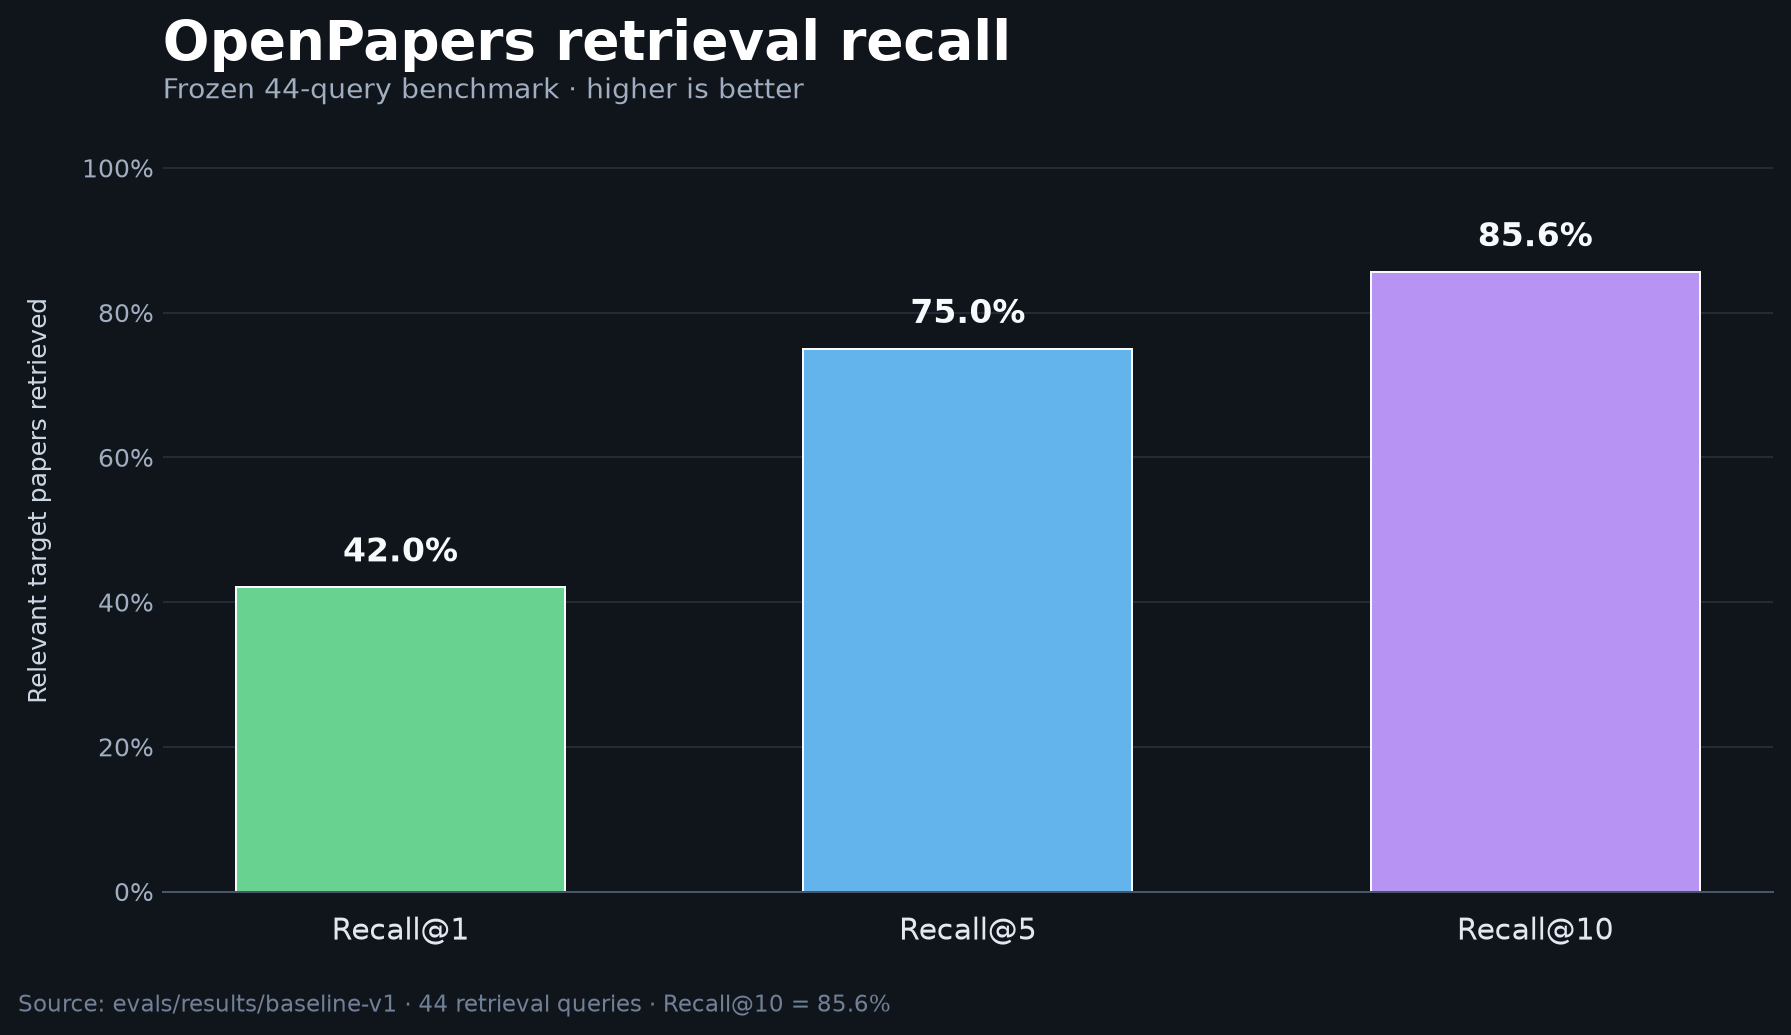
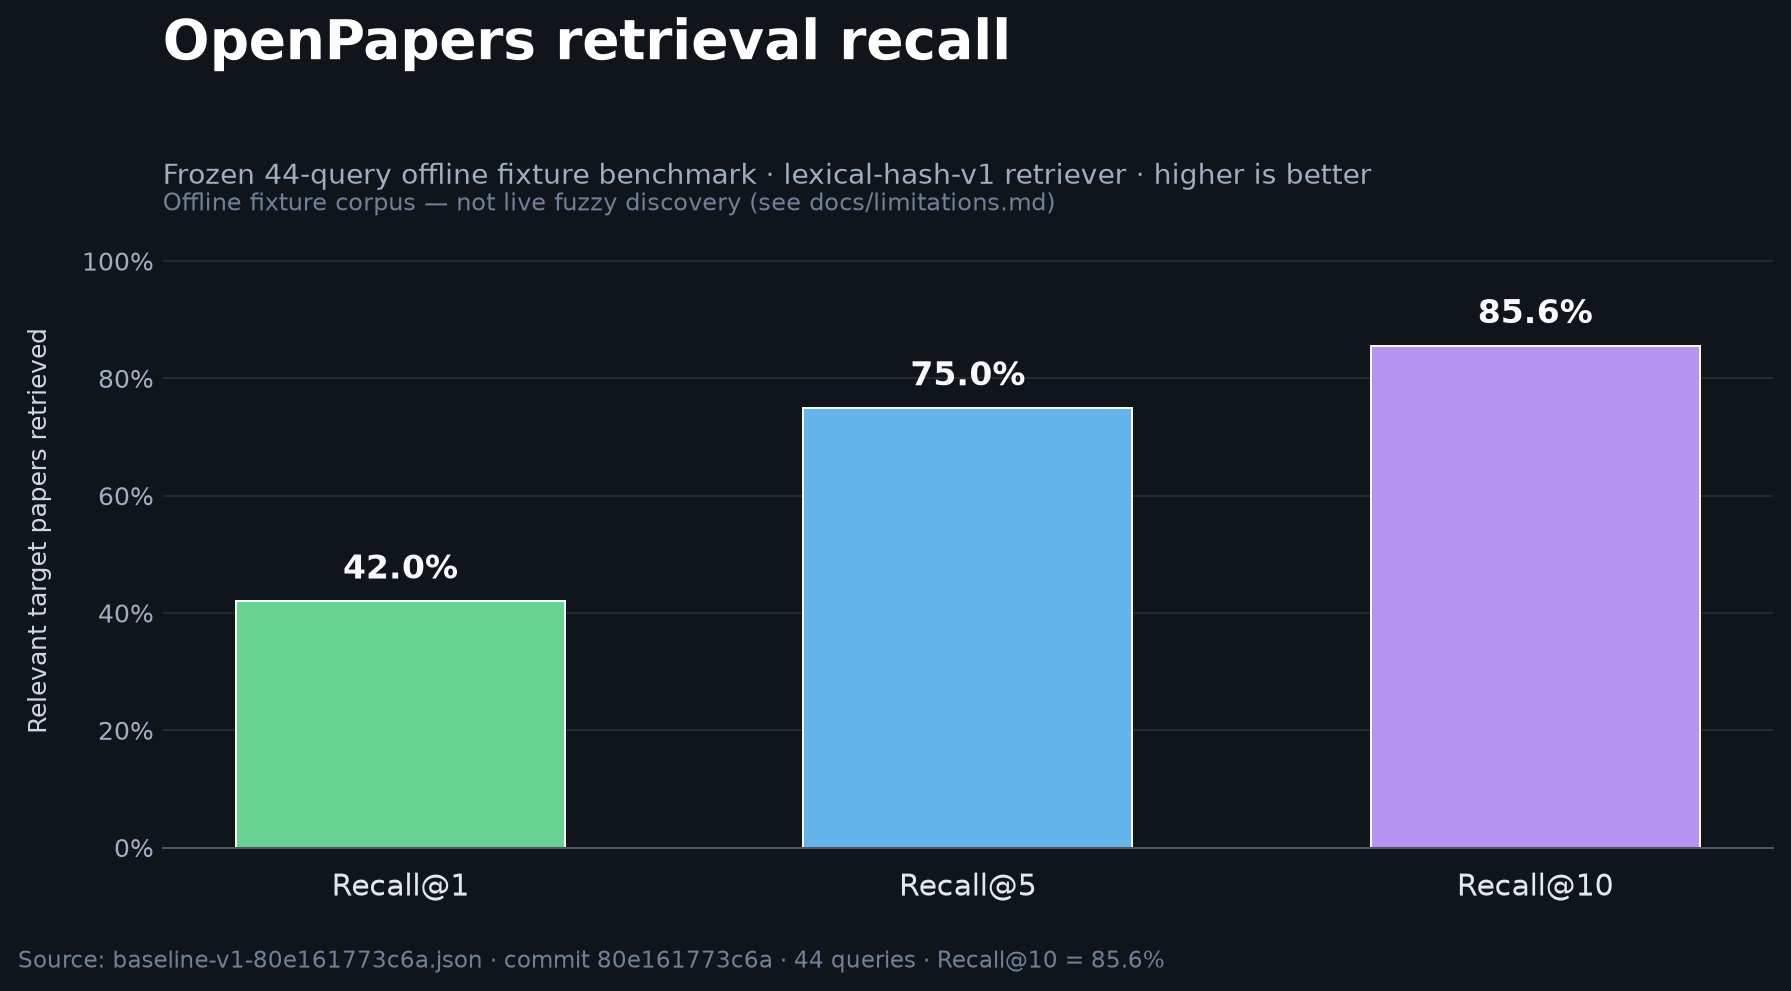
fix(release): gate run validity, identity drift, and chart provenance
Three defects found auditing the shipped 1.0.0 tree. No source defect was
found: npm run check is green (68 files / 273 tests) and the four commits
discarded by the release squash were verified content-identical to HEAD apart
from the README and the chart, so no work was lost.

Live gate accepted an invalid run. live-search-reliability-80e161773c6a.json
(recorded at the commit titled "docs: finalize release gate record") reported
all thresholds met while all 30 cases hit a provider failure under sustained
arXiv HTTP 429. All 8 identifier cases failed, giving identifier resolution 0.0
against 1.0 two days earlier. This is environmental, not a regression, but
nothing flagged the run as non-informative. Gate identifierResolutionRate at
0.9 and check run validity first, exiting 2 (LIVE RUN INVALID) when more than
half the cases hit provider failures, so a degraded network is distinguishable
from degraded software. Artifact schema is now v2. Replaying the recorded runs:
2026-09-06 -> exit 0, 2026-09-08 -> exit 2.

Repository identity had drifted. The remote is arjhinety/OpenPapers, but
package.json and server.json still named arrogance231, leaving mcpName in an
io.github.<owner> namespace that no longer matched repository ownership.
check-versions.mjs now enforces identity across package metadata, the server
manifest, and README links.

The recall chart hardcoded its numbers while citing evals/results/baseline-v1
[…]

diff --git a/scripts/plot-retrieval-recall.py b/scripts/plot-retrieval-recall.py
@@ -1,20 +1,80 @@
 #!/usr/bin/env python3
-"""Plot the frozen retrieval benchmark's Recall@K metrics."""
+"""Plot the frozen retrieval benchmark's Recall@K metrics.
 
+Values are read from a recorded baseline artifact rather than hardcoded, so the chart cannot
+drift away from the evidence its caption cites. Pass an artifact path to pin a specific run;
+otherwise the latest committed `baseline-v1-*.json` is used.
+"""
+
+import json
+import subprocess
+import sys
 from pathlib import Path
 
 import matplotlib.pyplot as plt
 from matplotlib.ticker import PercentFormatter
 
 
-RECALL = {
-    "Recall@1": 0.4204545454545455,
-    "Recall@5": 0.75,
-    "Recall@10": 0.8560606060606062,
-}
-
 ROOT = Path(__file__).resolve().parents[1]
+RESULTS = ROOT / "evals" / "results"
 OUTPUT = ROOT / "assets" / "retrieval-recall.png"
+
+
+def committed_at(record_commit: str) -> int | None:
+    """Commit timestamp for an artifact's anchor, or None if it does not resolve."""
+    try:
+        out = subprocess.run(
+            ["git", "show", "-s", "--format=%ct", record_commit],
+            cwd=ROOT, capture_output=True, text=True, check=True,
+        )
+        return int(out.stdout.strip())
+    except (OSError, ValueError, subprocess.CalledProcessError):
+        return None
+
+
+def find_artifact() -> Path:
+    """Newest baseline by COMMIT DATE, not filename.
+
+    Artifact names embed a commit hash, so sorting by name orders them by hex digits and silently
+    selects an arbitrary run -- it picked the superseded 12-query baseline over the current 44-query
+    one. Every evidence anchor is reachable (see the evidence/* tags), so git history is the
+    authoritative ordering.
+    """
+    if len(sys.argv) > 1:
+        return Path(sys.argv[1])
+    candidates = [
+        path
+        for path in RESULTS.glob("baseline-v1-*.json")
+        if not path.name.endswith(("-failures.json", "-paper-code-failures.json"))
+    ]
+    if not candidates:
+        sys.exit(f"error: no baseline-v1-*.json artifact found in {RESULTS}")
+    dated = [
+        (when, path)
+        for path, when in ((path, committed_at(path.stem.split("-")[-1])) for path in candidates)
+        if when is not None
+    ]
+    if not dated:
+        sys.exit(
+            "error: no baseline-v1 artifact has a resolvable commit anchor; "
+            "pass an artifact path explicitly"
+        )
+    return max(dated)[1]
+
+
+artifact = find_artifact()
+try:
+    record = json.loads(artifact.read_text(encoding="utf-8"))
+    aggregate = record["retrieval"]["aggregate"]
+    commit = record["commit"]
+    queries = aggregate["queries"]
+    RECALL = {
+        "Recall@1": aggregate["recallAt1"],
+        "Recall@5": aggregate["recallAt5"],
+        "Recall@10": aggregate["recallAt10"],
+    }
+except (OSError, KeyError, ValueError) as error:
+    sys.exit(f"error: cannot read retrieval aggregate from {artifact}: {error}")
 
 plt.style.use("dark_background")
 fig, ax = plt.subplots(figsize=(10, 6), dpi=180)
@@ -35,14 +95,22 @@ bars = ax.bar(
 ax.set_ylim(0, 1.08)
 ax.yaxis.set_major_formatter(PercentFormatter(1.0))
 ax.set_ylabel("Relevant target papers retrieved", color="#cbd5e0", labelpad=12)
-ax.set_title("OpenPapers retrieval recall", loc="left", fontsize=22, fontweight="bold", pad=20)
+ax.set_title("OpenPapers retrieval recall", loc="left", fontsize=22, fontweight="bold", pad=62)
 ax.text(
     0,
-    1.015,
-    "Frozen 44-query benchmark · higher is better",
+    1.048,
+    f"Frozen {queries}-query offline fixture benchmark · lexical-hash-v1 retriever · higher is better",
     transform=ax.transAxes,
     color="#a0aec0",
     fontsize=11,
+)
+ax.text(
+    0,
+    1.006,
+    "Offline fixture corpus — not live fuzzy discovery (see docs/limitations.md)",
+    transform=ax.transAxes,
+    color="#718096",
+    fontsize=9.5,
 )
 
 ax.grid(axis="y", color="#4a5568", alpha=0.35, linewidth=0.8)
@@ -68,11 +136,11 @@ for bar, value in zip(bars, values):
 fig.text(
     0.01,
     0.015,
-    "Source: evals/results/baseline-v1 · 44 retrieval queries · Recall@10 = 85.6%",
+    f"Source: {artifact.name} · commit {commit[:12]} · {queries} queries · Recall@10 = {RECALL['Recall@10']:.1%}",
     color="#718096",
     fontsize=9,
 )
-fig.tight_layout(rect=(0, 0.05, 1, 0.96))
+fig.tight_layout(rect=(0, 0.05, 1, 0.92))
 OUTPUT.parent.mkdir(parents=True, exist_ok=True)
 fig.savefig(OUTPUT, facecolor=fig.get_facecolor(), bbox_inches="tight")
-print(f"Wrote {OUTPUT}")
+print(f"Wrote {OUTPUT} from {artifact.name} (commit {commit[:12]}, {queries} queries)")

diff --git a/docs/testing.md b/docs/testing.md
@@ -2,6 +2,8 @@
 
 This document defines what the OpenPapers test program covers, what each gate proves, and which recorded evidence backs every public claim a release makes. Evidence files are committed under `evals/results/` with their producing commit and timestamp; tests run deterministically and credential-free unless marked live.
 
+Every artifact filename embeds the 12-character commit that produced it. Some of those commits predate the 1.0.0 history squash and are not ancestors of `master`, so each one is preserved by an annotated `evidence/<commit>` tag — `git show evidence/02c9ae4cf29f` resolves the run that produced `live-search-reliability-02c9ae4cf29f.json`. An evidence artifact whose anchor does not resolve is not evidence; `scripts/plot-retrieval-recall.py` relies on this to order baselines by commit date rather than by filename.
+
 ## Test levels
 
 | Level | Gate | Command | What it proves |
@@ -21,14 +23,15 @@ All 37 registered MCP tools have behavioral tests at the handler boundary (`test
 - `npm run check` green on Node 22 and 24 (L0+L1).
 - `npm run test:e2e` green (L2): stdio, HTTP, SQLite restart.
 - `npm run test:docker` green with the persistence step passing (L4); evidence in `evals/results/docker-e2e-*.json`.
-- Live thresholds met (L3) in the recorded result: title-exact Recall@10 ≥ 0.9, identity correctness ≥ 0.95, zero-result-with-no-reported-failure = 0. Evidence: `evals/results/live-search-reliability-*.json`.
+- Live thresholds met (L3) in the recorded result: title-exact Recall@10 ≥ 0.9, identifier resolution ≥ 0.9, identity correctness ≥ 0.95, zero-result-with-no-reported-failure = 0. Evidence: `evals/results/live-search-reliability-*.json`.
+- The L3 run is **valid** (L3): at most half the cases hit a provider failure (`runValidity.providerFailureCaseRate` ≤ 0.5). Validity is checked before thresholds and is not a quality metric — a run whose providers were broadly rate-limited measures nothing, so `--strict` exits `2` (`LIVE RUN INVALID`) to distinguish it from a genuine quality failure, which exits `1`. See the 2026-09-08 degraded run recorded in [the release checklist](../RELEASE_CHECKLIST.md).
 
 ## Claims matrix
 
 | Public claim | Evidence (committed) | Scope and honest limits |
 |---|---|---|
-| Ranking and identity work deterministically offline | `evals/results/baseline-v1-*.json`: Recall@10 0.856, MRR 0.773 over 44 queries; identity accuracy 1.0 over 119 cases, false merge/split 0; `evals/results/retrieval-holdout-*.json`: Recall@1/5/10 1.0 (5 frozen queries, never used for tuning) | Fixture corpus; numbers are not comparable across datasets |
-| Search finds known works reliably | `evals/results/live-search-reliability-*.json`: title-exact Recall@10 1.0 (16 cases), identifier resolution 1.0 (8 cases: arXiv id, URL, DOI, doi.org URL forms) | 30-case run from one network region at one timestamp; fuzzy discovery Recall@10 0.5 is recorded as discovery quality, not a guarantee (see [limitations](limitations.md)) |
+| Ranking and identity work deterministically offline | `evals/results/baseline-v1-*.json`: Recall@10 0.856, MRR 0.773 over 44 queries; identity accuracy 1.0 over 119 cases, false merge/split 0; `evals/results/retrieval-holdout-*.json`: Recall@1/5/10 1.0 (5 frozen queries, never used for tuning) | Fixture corpus; numbers are not comparable across datasets. The holdout withholds **query phrasings, not documents**: all five target works (`lora`, `orpo`, `flashattention`, `self-instruct`, `mixtral`) also appear in the 44-query tuning set, so it measures paraphrase robustness over a tuned corpus, not generalization to unseen works. At n=5 a perfect score is weak evidence — treat it as a regression tripwire, not a quality estimate |
+| Search finds known works reliably | `evals/results/live-search-reliability-02c9ae4cf29f.json`: title-exact Recall@10 1.0 (16 cases), identifier resolution 1.0 (8 cases: arXiv id, URL, DOI, doi.org URL forms), 9/30 cases with provider failures | 30-case run from one network region at one timestamp; fuzzy discovery Recall@10 0.5 is recorded as discovery quality, not a guarantee (see [limitations](limitations.md)). A later run (`-80e161773c6a`) under sustained arXiv HTTP 429 recorded identifier resolution 0.0 and fuzzy 0.333 with 30/30 cases failing; it is retained as an invalid run, not a quality measurement |
 | Identity is never fabricated | Live identity correctness 1.0; `tests/identifier-probe.test.ts`; citation-integrity validation in the tool boundary; `tests/adversarial/full-flow.test.ts` | Heuristic extraction remains derived evidence, not verification |
 | Provider failures are surfaced, never silent | Live `zeroResultWithNoFailureReportedRate` 0; `evals/results/provider-degradation-*.json` (offline injected outages); per-case `providerFailures` in every live result row | Failure contents depend on provider responses; anonymous access degrades more than keyed access |
 | Every tool behaves per contract | `tests/tools-matrix.test.ts` (37/37) + `tests/mcp-contracts.test.ts` | Exercised with fixture providers over an in-memory database |

diff --git a/RELEASE_CHECKLIST.md b/RELEASE_CHECKLIST.md
@@ -4,7 +4,9 @@ Use this checklist for a release candidate. Mark items only after running them a
 
 > **Current checkout status:** this document contains historical gate records for older commits. They are not evidence for the current HEAD. Before release, record `git rev-parse HEAD`, rerun every gate below, and attach artifacts whose filenames include that commit.
 >
-> **Latest clean release verification:** `npm run test:docker`, `npm run test:postgres`, and the frozen v5 holdout passed at the current release candidate. Artifacts are generated under `evals/results/` with the exact HEAD; generated results are ignored so they do not dirty the release tree.
+> **Latest clean release verification:** `npm run test:docker`, `npm run test:postgres`, and the frozen v5 holdout passed at the current release candidate. Artifacts are generated under `evals/results/` with the exact HEAD.
+>
+> **Evidence is committed, not ignored.** The 1.0.0 release commit added `evals/results/*.json` to `.gitignore` to keep the release tree clean. That silently withheld every subsequent artifact — 44 files, including the reruns this checklist cites — and contradicted [the test plan](docs/testing.md), whose claims matrix is headed "Evidence (committed)". The ignore rule is now scoped to `evals/results/scratch/`; put throwaway runs there and commit everything else. Artifacts whose anchor commit predates the 1.0.0 history squash are preserved by `evidence/<commit>` tags.
 
 ## Automated gates
 
@@ -102,3 +104,13 @@ Executed after the release-integrity pass (clean history, version alignment, hol
 - [x] `npm pack --dry-run` and `npm audit --audit-level=high`: tarball builds; 0 vulnerabilities.
 - [x] Version metadata consistent across `package.json`, `package-lock.json`, `server.json`, `src/mcp/server.ts`, and the `CHANGELOG.md` head (`1.0.0`), enforced by `scripts/check-versions.mjs`.
 - [x] No GitHub release or npm publication existed before this freeze; the `v1.0.0` tag is created at the release commit at publication time.
+
+## Post-release evidence audit (2026-09-12)
+
+An audit of the shipped 1.0.0 tree found the release's own provenance chain broken in two ways, plus one gate that could not detect a meaningless run. No shipped source defect was found: `npm run check` is green (68 files / 273 tests) and the four discarded pre-release commits (`86d5d74bd798`, `e0dc8cadf997`, `eb7a024ea0d6`, `80e161773c6a`) were verified content-identical to `HEAD` apart from the README and the recall chart, so the history squash lost no work.
+
+- [x] **Evidence was being withheld.** `.gitignore` was narrowed from `evals/results/*.json` to `evals/results/scratch/`, and the 44 previously-ignored artifacts are committed.
+- [x] **Evidence anchors were unreachable.** 6 of 56 distinct commit pointers embedded in committed artifact filenames — including `02c9ae4cf29f` (live + docker), `9bd428b28017` (PDF gold), `685893d668e8` (v5 holdout), `bdc13787e834` (docker) — were dangling after the squash and absent from `origin`, so no clone could resolve them. Default gc would have pruned them around 2026-09-20. All 11 affected commits now carry pushed `evidence/<commit>` annotated tags.
+- [x] **The live gate accepted an invalid run.** `evals/results/live-search-reliability-80e161773c6a.json` (2026-09-08, recorded at the commit titled *"docs: finalize release gate record"*) reported all thresholds met while every one of its 30 cases hit a provider failure (46 total) under sustained arXiv HTTP 429. All 8 identifier cases failed, giving identifier resolution **0.0** against 1.0 on 2026-09-06; live Recall@10 fell 0.9 → 0.6 and fuzzy 0.5 → 0.333. This is environmental, not a code regression — every failing case records `arXiv request failed: 429` — but nothing flagged the run as non-informative, and the numbers were never committed or recorded here. `run-live-search-reliability.mjs` now gates `identifierResolutionRate` (≥ 0.9) and checks run validity first, exiting `2` with `LIVE RUN INVALID` when more than half the cases hit provider failures. Artifact schema is now `openpapers.live-search-reliability.v2`. Replaying both recorded runs through the new logic: 2026-09-06 → exit 0; 2026-09-08 → exit 2.
+- [x] **Repository identity had drifted.** The remote is `arjhinety/OpenPapers`, but `package.json` (`repository`, `homepage`, `bugs`, `mcpName`) and `server.json` (`name`, `repository.url`) still named `arrogance231`, leaving `mcpName` in an `io.github.<owner>` namespace that no longer matched repository ownership. All are now `arjhinety`; `scripts/check-versions.mjs` enforces identity consistency across package metadata, the server manifest, and README links so it cannot drift again.
+- [x] **The recall chart hardcoded its numbers** while its footer cited `evals/results/baseline-v1` as the source. `scripts/plot-retrieval-recall.py` now derives Recall@1/5/10 and the query count from the newest baseline artifact by commit date, stamps the artifact name and commit into the footer, and labels its scope as the offline fixture corpus rather than presenting a bare 85.6%.

diff --git a/docs/retrieval-evaluation.md b/docs/retrieval-evaluation.md
@@ -1,5 +1,9 @@
 # Retrieval evaluation and experiments
 
+![Recall@1, Recall@5, and Recall@10 on the frozen 44-query offline fixture benchmark](../assets/retrieval-recall.png)
+
+Regenerate with `python scripts/plot-retrieval-recall.py [artifact.json]`. It reads Recall@1/5/10 and the query count from a recorded `baseline-v1-*.json` — defaulting to the newest by commit date — so the chart cannot drift from the artifact its footer cites. These are offline fixture-corpus numbers over the `lexical-hash-v1` retriever; they are not live fuzzy discovery, which is measured separately at Recall@10 ≈ 0.5 and sits outside the 1.0 contract (see [limitations](limitations.md)).
+
 ## Baselines
 
 `evals/results/baseline-v1-edadc8a31da6.json` is the clean Baseline V1 for the original 12-query / 12-work fixture set. It was generated from commit `edadc8a31da6` with `workingTreeDirty: false`.
